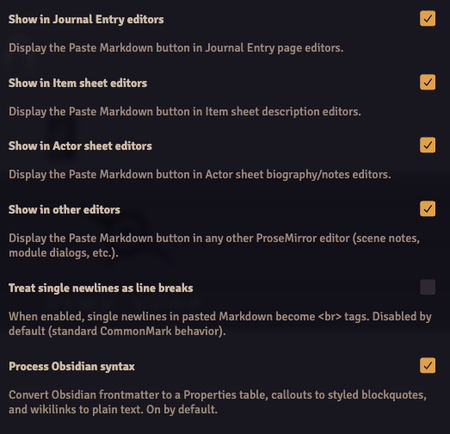
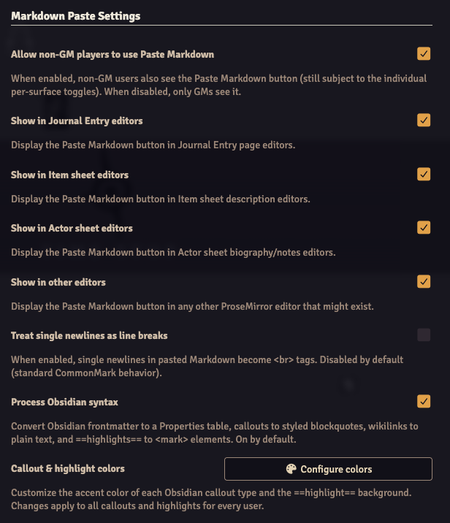
chore: prepare release v0.3.0

diff --git a/CHANGELOG.md b/CHANGELOG.md
@@ -4,14 +4,15 @@ All notable changes to this project will be documented in this file.
 
 ## [Unreleased]
 
+## [0.3.0] - 2026-05-29
+
 ### Added
-- Customizable callout **and highlight** colors via a new "Configure colors" settings menu (13 callout pickers + the `==highlight==` color, with live preview and reset-to-defaults). Colors apply to all callouts and highlights for every user, retroactively.
-- "Markdown Paste Settings" section heading at the top of the module settings.
+- Customizable callout **and highlight** colors via a new "Configure colors" settings menu (13 callout pickers, with live preview and reset-to-defaults). Colors apply to all callouts and highlights for every user, retroactively.
 - "Allow non-GM players to use Paste Markdown" option. When off (default), only GMs see the button; the per-surface toggles still apply.
 
 ### Changed
-- All module settings are now world-scoped and GM-controlled (previously per-client). **Migration note:** existing per-client toggle preferences do not carry over and reset to defaults on first load after upgrade.
-- `==highlight==` now renders as `<mark class="md-highlight">` (was a bare `<mark>`) so its color is themeable via the new setting.
+- All module settings are now world-scoped and GM-controlled (previously per-client).
+- `==highlight==` now renders as `<mark class="md-highlight">`. Its color is themeable via the new setting.
 
 ## [0.2.1] - 2026-05-28
 

diff --git a/README.md b/README.md
@@ -41,14 +41,7 @@ https://github.com/martin-papy/markdown-paste/releases/latest/download/module.js
 
 Found under **Configure Settings → Module Settings → Markdown Paste**:
 
-- **Show in Journal Entry editors** (default: on)
-- **Show in Item sheet editors** (default: on)
-- **Show in Actor sheet editors** (default: on)
-- **Show in other editors** (default: on)
-- **Treat single newlines as line breaks** (default: off — standard CommonMark)
-- **Process Obsidian syntax** (default: on)
-
-All settings are client-scope (per-user, not GM-controlled).
+All settings are world-scope.
 
 ![Module Settings](images/Settings.png)
 
